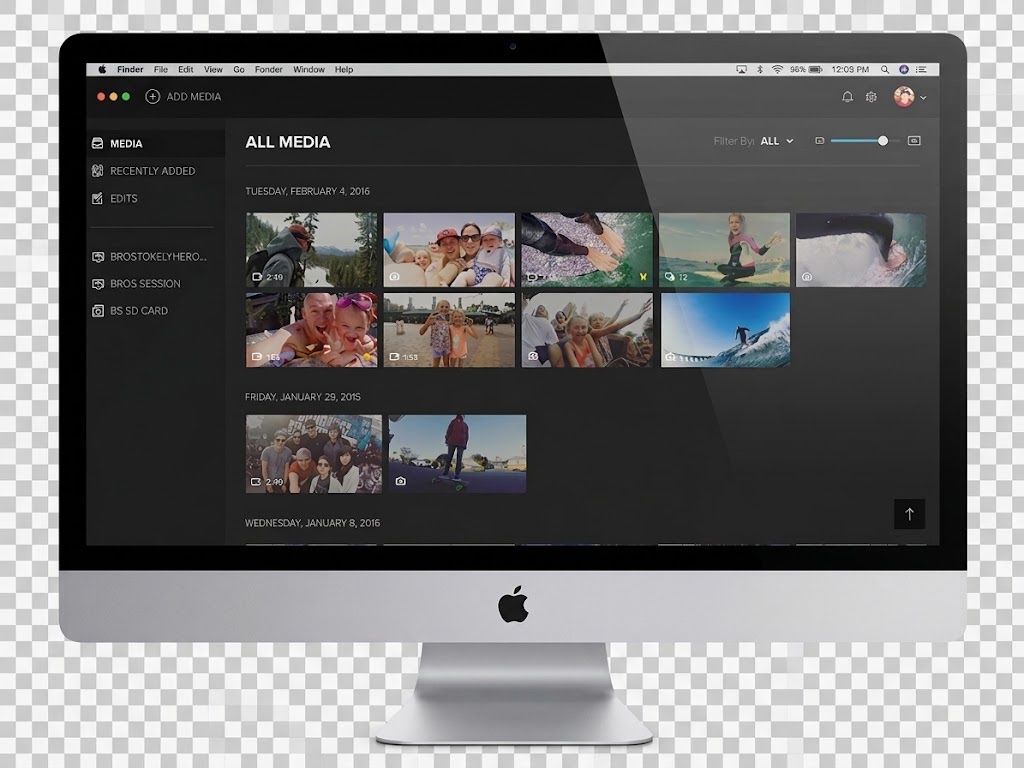
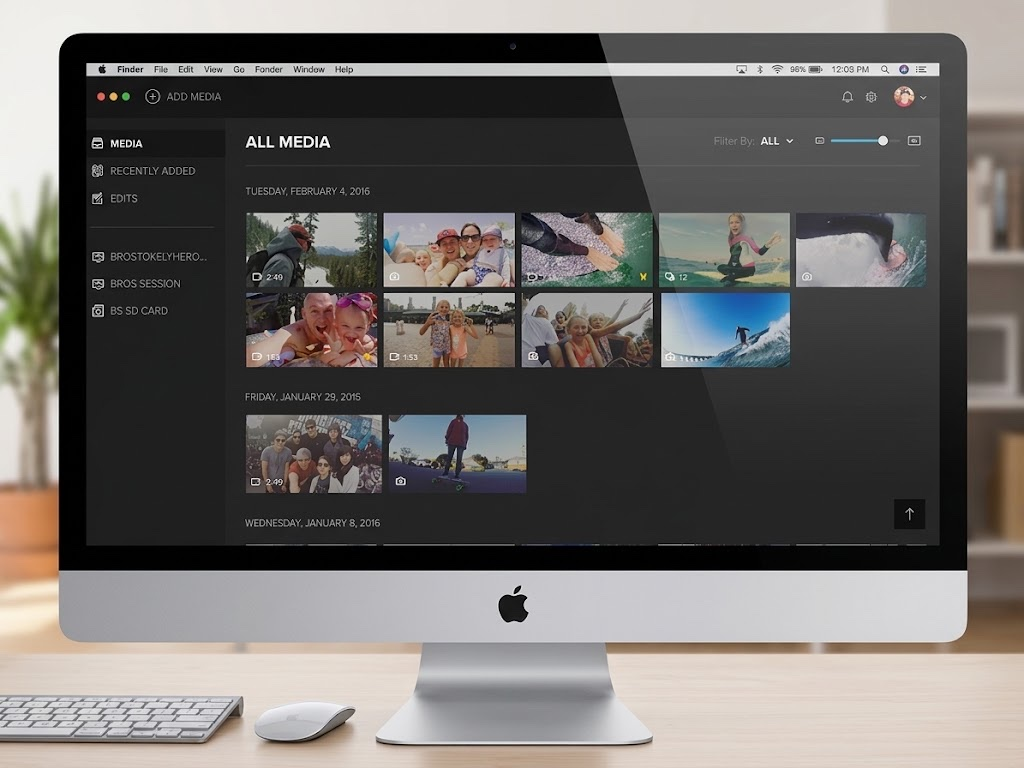
GoPro ecosystem: use gopro_desktop2 (iMac on a real desk) for the Desktop App card

Changed region(s): [[0.0, 0.0, 1.0, 1.0]]

diff --git a/project-four.html b/project-four.html
@@ -358,7 +358,7 @@
     <p class="body-lg">We were already working on weaving the GoPro brand across many pieces of a distributed ecosystem — a desktop app, the mobile apps, and the hardware's device interfaces. The new website had to simply and elegantly fit into the existing family, as well as extend the brand.</p>
     <div class="eco">
       <figure class="eco-card">
-        <div class="eco-shot"><img src="assets/img/gopro-desktop.jpg?v=3" alt="GoPro desktop app — the media library of clips and edits" loading="lazy" /></div>
+        <div class="eco-shot"><img src="assets/img/gopro-desktop.jpg?v=4" alt="GoPro desktop app — the media library of clips and edits" loading="lazy" /></div>
         <span class="eco-k">Desktop App</span>
         <h3 class="eco-t">The full studio</h3>
         <p class="eco-b">Where creators cut, colored, and finished their footage on the big screen.</p>
